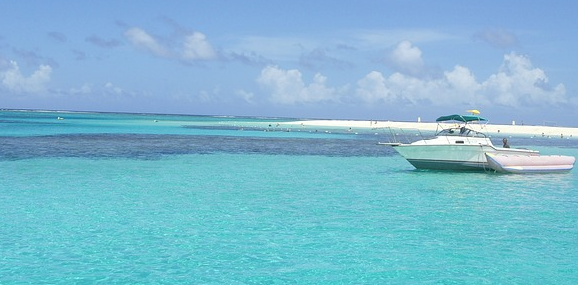
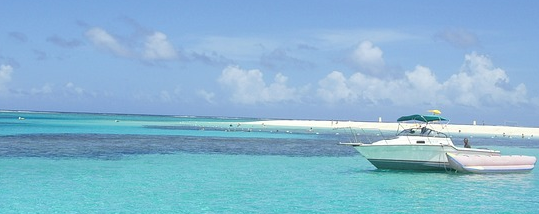
hero image 사이즈 변경

diff --git a/public/css/style.css b/public/css/style.css
@@ -73,6 +73,8 @@ a, a:link{
 }
 .hero img{
     width: 100%;
+    height: 500px;
+    overflow: hidden;
 }
 
 /*footer*/
